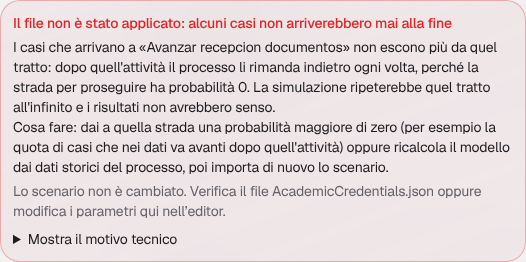
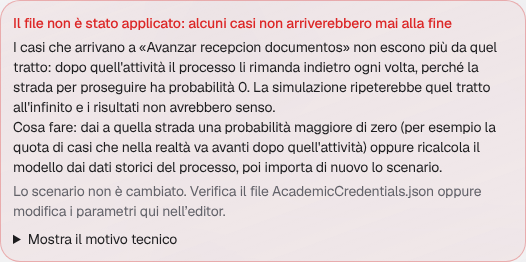
chore(simulation): clearer wording of what to do

Changed region(s): [[0.0304, 0.6107, 0.8517, 0.6718], [0.2433, 0.5191, 0.9734, 0.5802]]

diff --git a/backend/simulation/ir/soundness.py b/backend/simulation/ir/soundness.py
@@ -569,7 +569,7 @@ class _Checker:
                 "probabilità 0. La simulazione ripeterebbe quel tratto all'infinito e i risultati non avrebbero senso."
             )
             action = (
-                "Dai a quella strada una probabilità maggiore di zero (per esempio la quota di casi che nei dati "
+                "Dai a quella strada una probabilità maggiore di zero (per esempio la quota di casi che nella realtà "
                 "va avanti dopo quell'attività) oppure ricalcola il modello dai dati storici del processo, poi "
                 "importa di nuovo lo scenario."
             )
